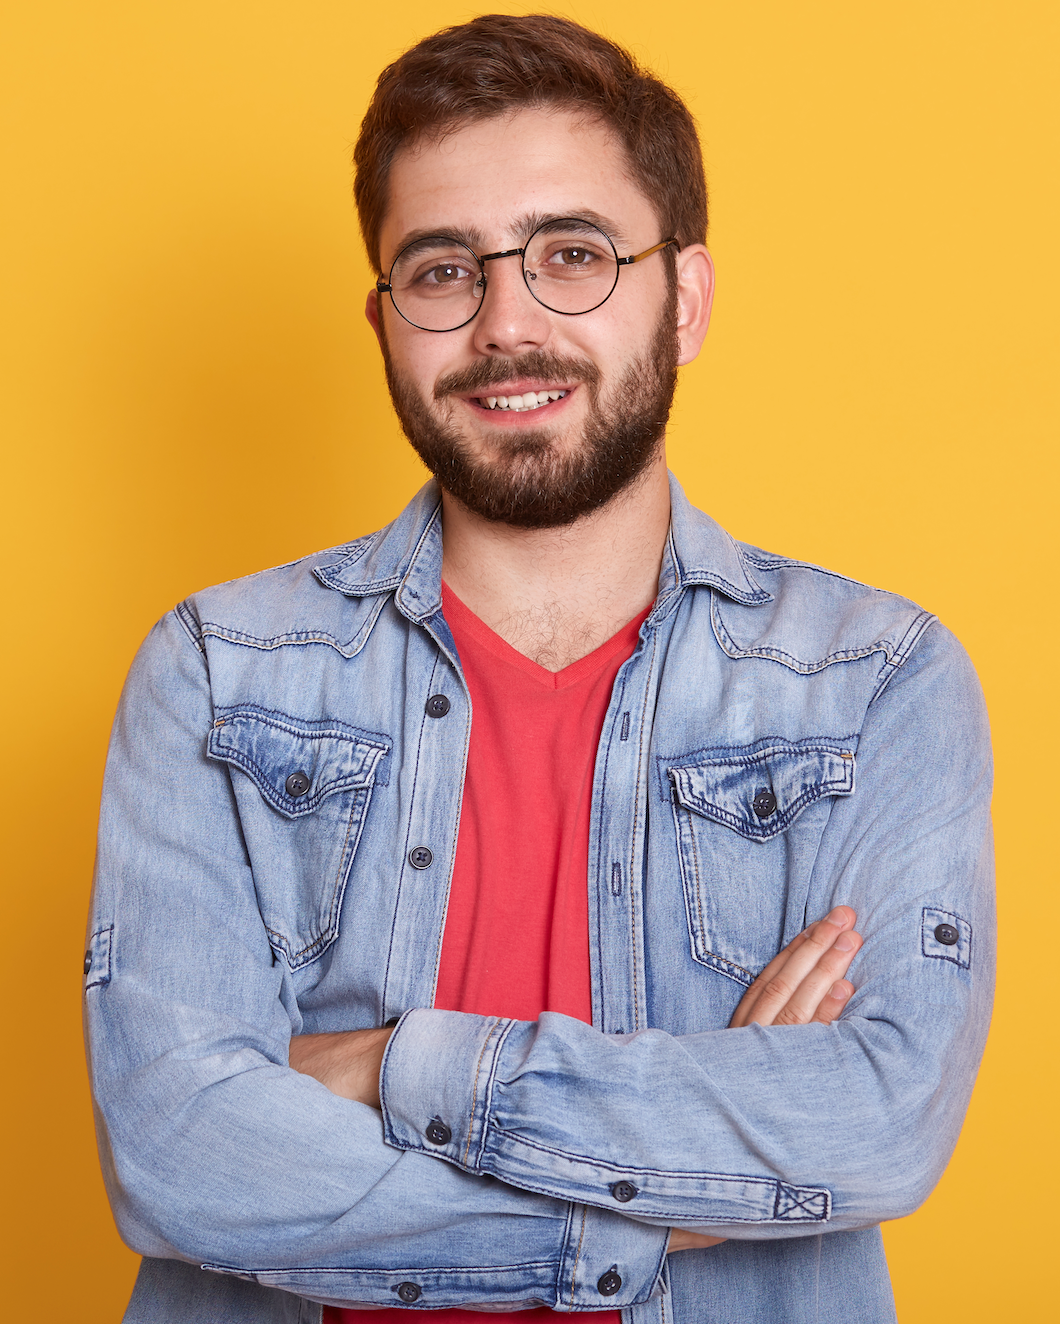
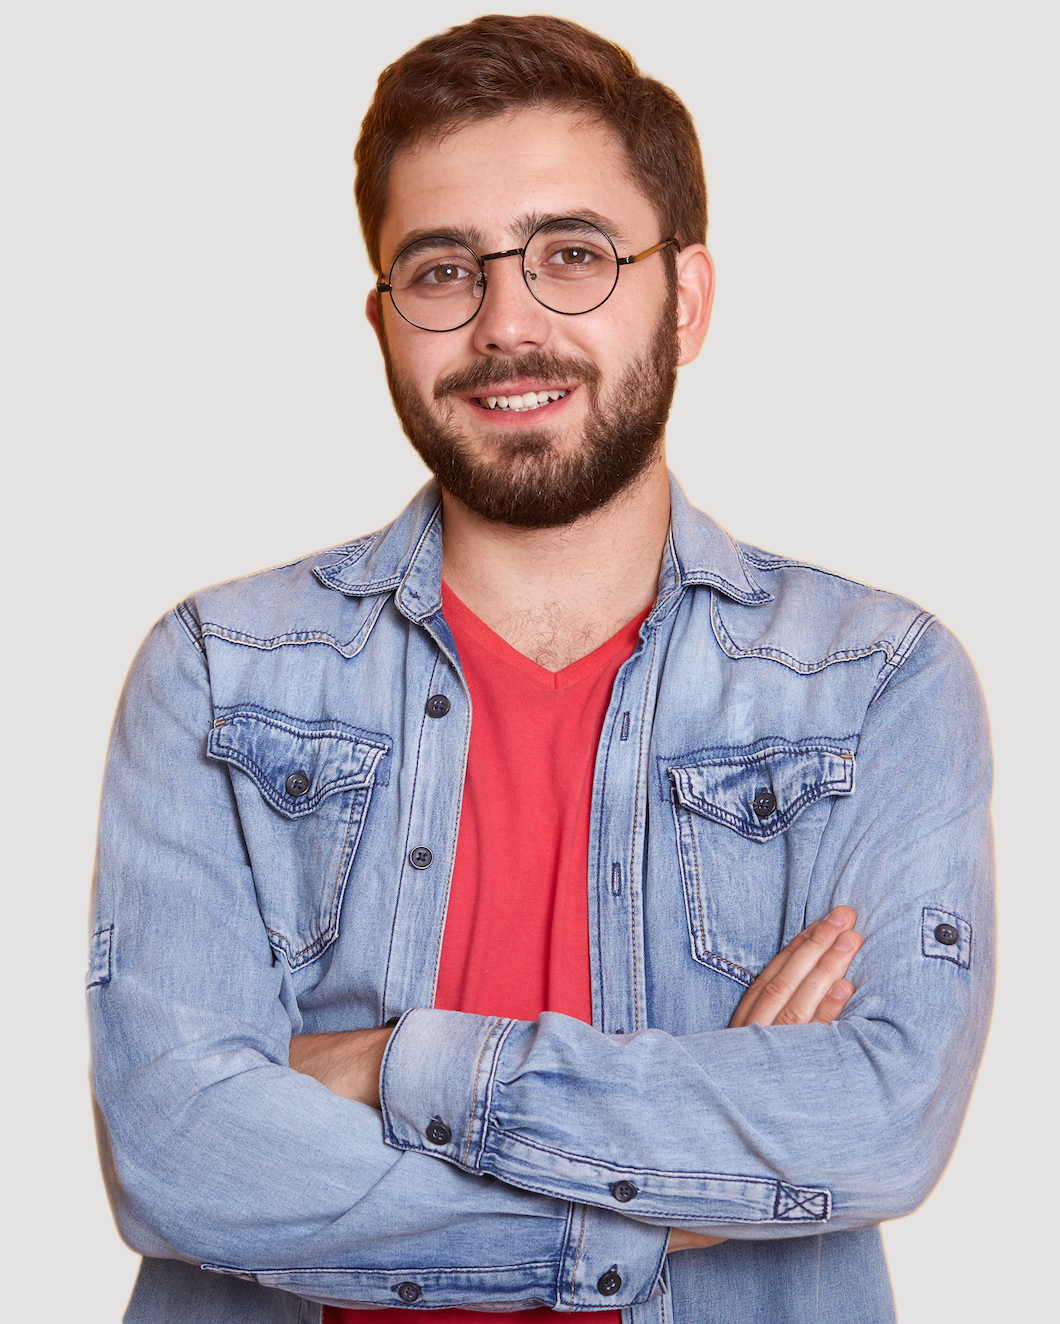
added new picture for member

diff --git a/src/components/OurTeam.tsx b/src/components/OurTeam.tsx
@@ -31,7 +31,7 @@ const Advisor = () => {
   return (
     <>
       <div className="group relative w-80 duration-300 ease-in-out hover:scale-105">
-        <img src="/img/advisor/advisor2.png" className="rounded-xl" alt="" />
+        <img src="/img/advisor/advisor1.png" className="rounded-xl" alt="" />
         <div className="absolute -bottom-10 left-5 right-5 grid rounded-lg bg-slate-100 py-4 text-center group-hover:bg-green-700">
           <span className="font-bold group-hover:text-yellow-400">
             Sophia Andres

diff --git a/src/components/WhyHireUs.tsx b/src/components/WhyHireUs.tsx
@@ -8,7 +8,7 @@ const WhyHireUs = () => {
         <div className="grid gap-10">
           <div className="grid place-content-start">
             <ContentHeader
-              className="grid w-[700px] text-left"
+              className="grid text-left"
               subTitle="WHY CHOOSE US"
               title="Come And Join With Us for A Better Life and Future"
               content=""

diff --git a/src/App.tsx b/src/App.tsx
@@ -10,7 +10,7 @@ function App() {
   return (
     <>
       <div className="flex justify-center">
-        <div className="w-[90%]">
+        <div className="w-[1536px]">
           {/* Header */}
           <Navbar />
           {/* Content section here */}
